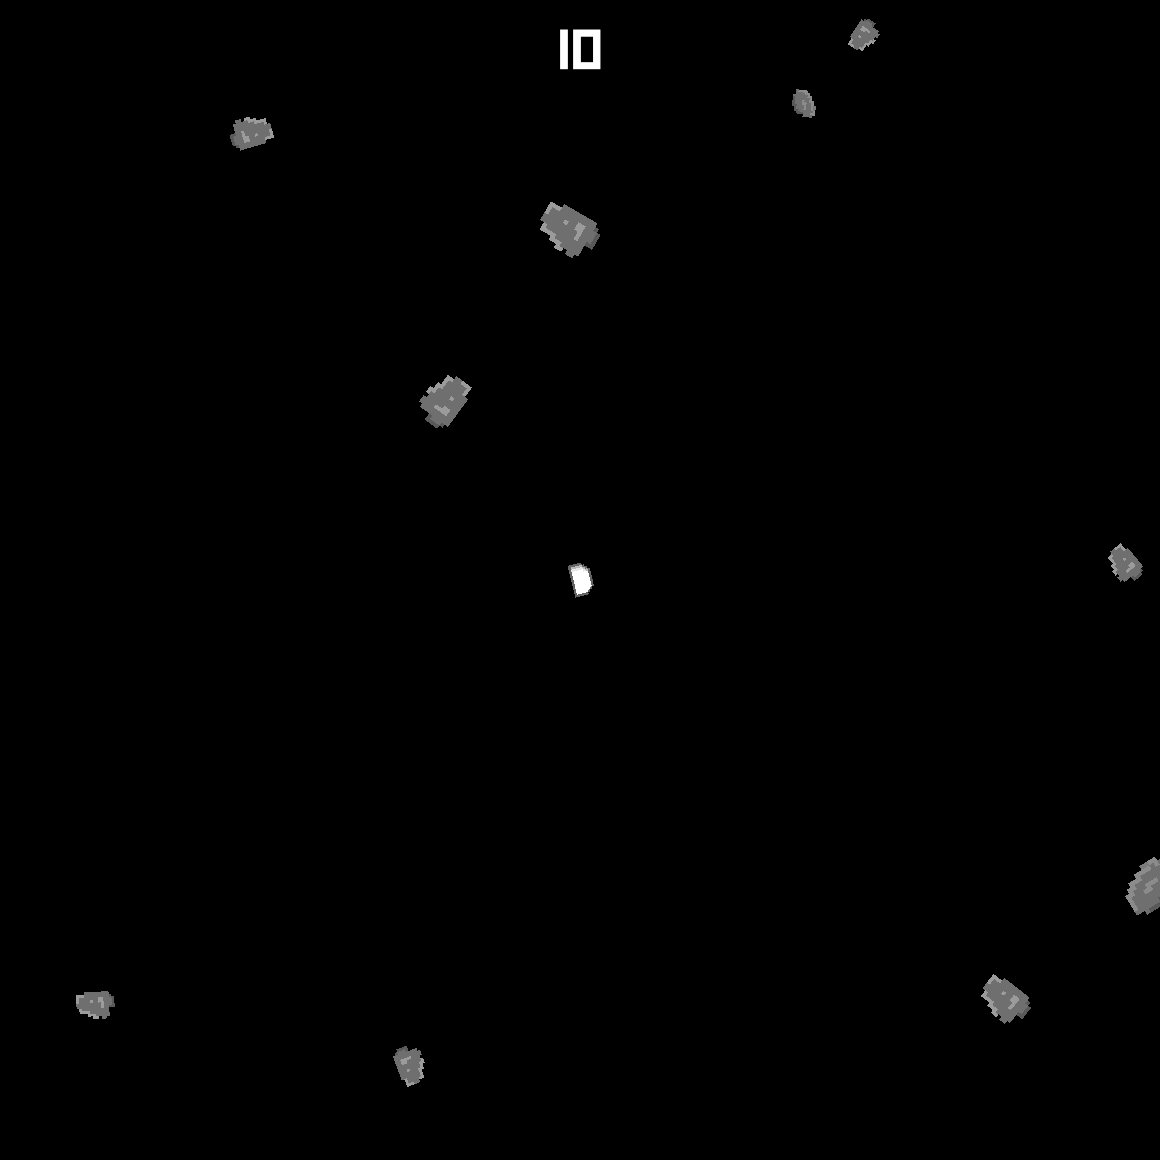
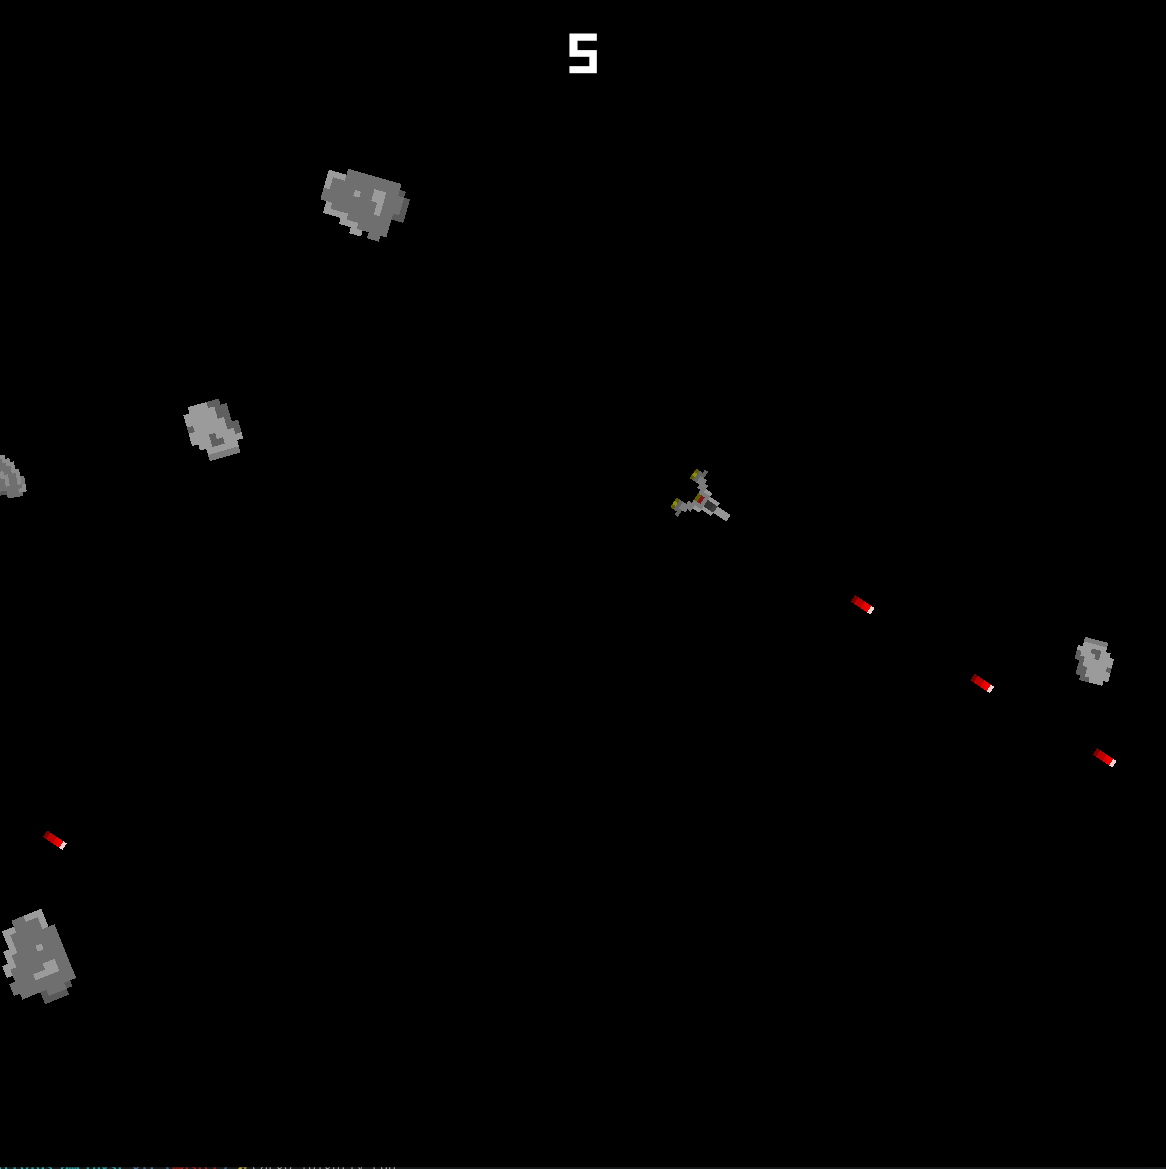
Make things prettier

diff --git a/src/main.rs b/src/main.rs
@@ -25,8 +25,8 @@ mod systems;
 
 use std::time::Duration;
 
-const ARENA_HEIGHT: f32 = 500.0;
-const ARENA_WIDTH: f32 = 500.0;
+const ARENA_HEIGHT: f32 = 300.0;
+const ARENA_WIDTH: f32 = 300.0;
 
 fn main() -> amethyst::Result<()> {
     // amethyst::start_logger(Default::default());
@@ -154,9 +154,9 @@ impl Default for Ship {
             acceleration: 80f32,
             rotation: 8f32,
             reload_timer: 0f32,
-            time_to_reload: 0.1f32,
-            bullet_velocity: 500f32,
-            bullet_jitter: 5.0,
+            time_to_reload: 0.2f32,
+            bullet_velocity: 150f32,
+            bullet_jitter: 2.0f32,
         }
     }
 }
